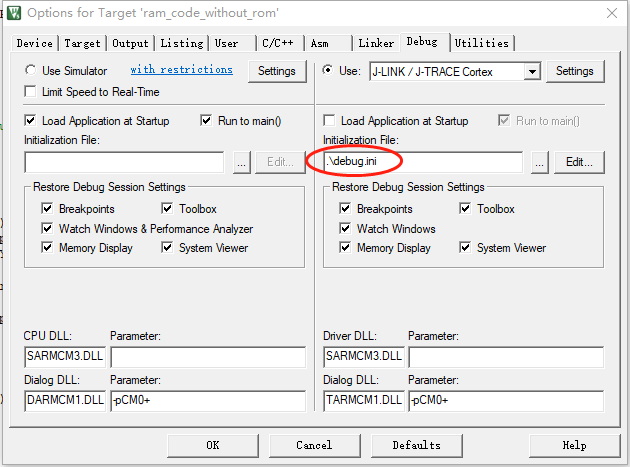
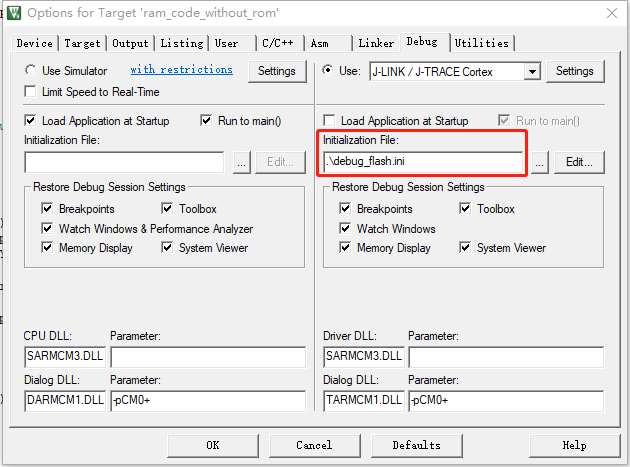
Add tools installation

Changed region(s): [[0.4825, 0.2698, 0.8444, 0.3897]]

diff --git a/getting_started/compiling_and_running_the_first_example.rst b/getting_started/compiling_and_running_the_first_example.rst
@@ -10,11 +10,11 @@ Compiling and running a first example
 
 .. image:: compiling_and_running_the_first_example_img2.png
 
-对于BX2400调试，可以有两种调试方式：在SRAM中调试和在Flash中调试。对于刚刚上手的用户来说，推荐第一种方式。而对于在SRAM中已经将功能调试的差不多的用户来说，可以考虑第二种更贴近实际应用的调试方法。
+对于BX2400调试，通常需要两个基本步骤：编译链接生成hex和运行调试hex
 
-1. SRAM调试
+1. 编译链接生成hex
 
-   在BX2400 SDK中，有若干APP Demo，初次上手的用户可以选择其中一个，编译链接并下载到开发板运行。
+   在BX2400 SDK中，有若干APP Demo，初次上手的用户可以选择其中一个，编译链接。步骤如下：
 
    a. 打开bx_sys_config.h，配置本地蓝牙地址
 
@@ -26,7 +26,7 @@ Compiling and running a first example
 
       .. image:: compiling_and_running_the_first_example_img3.png
 
-      注意：这里的宏必须打开一个，且只能打开一个
+      **!!!注意：这里的宏必须使能一个，且只能使能一个**
 
    #. 编译链接
 
@@ -40,29 +40,18 @@ Compiling and running a first example
 
       .. image:: compiling_and_running_the_first_example_img6.png
 
-      Debug选项中，需要修改初始化文件为debug.ini
+      Debug选项中，确保调试初始化文件为debug_flash.ini
 
-   #. 下载axf文件到开发板中，并运行
+#. 运行调试hex
 
-      .. image:: compiling_and_running_the_first_example_img7.png
+    在Keil目录下找到生成的hex文件，并下载该文件到Flash中，详细步骤可以参考文档 :doc:`flash_programming_guide_using_jflash`
 
-   #. 此时可以通过手机或者抓包器看到空中广播包：
+   #. hex运行起来后，可以通过手机或者抓包器看到空中广播包：
 
       .. image:: compiling_and_running_the_first_example_img8.png
 
-      注意：避免在同一环境中运行两个地址完全相同的蓝牙应用
+      **!!!注意：避免在同一环境中运行两个地址完全相同的蓝牙应用**
 
-   #. 此时可以在Keil环境里暂停/运行，设置断点，单步调试等。具体细节参见文档DEBUG环境
+   #. 可以在Keil环境里暂停/运行，设置断点，单步调试等。具体细节参见文档 :doc: `debug_env_and_tools`
       
-      注意：在BX2400里，某些特定状态下，Keil里无法执行上面的调试步骤，例如当IC在反复睡醒时，此时CPU处于关电状态，JLink无法连接到IC。
-
-2. Flash调试
-
-   Flash调试的前提是bin文件已经烧写入Flash中。关于如何烧写Flash，可以参考文档JFlash Tools
-
-   Flash调试的大部分步骤与RAM调试相同，唯一需要改变的是Debug选项的配置：
-      
-   .. image:: compiling_and_running_the_first_example_img9.png
-
-   在RAM中直接调试，初始化文件为debug.ini，而Flash调试的初始化文件为debug_flash.ini。
-
+      **!!!注意：在BX2400里，某些特定状态下，Keil里无法执行上面的调试步骤，例如当IC在反复睡醒时，此时CPU处于关电状态，JLink无法连接到IC。用户可以使能bx_sys_config.h中的宏DEBUGGER_ATTACHED，在此条件下编译生成的hex会跳过深睡眠的处理，保证在调试时用户的目标板可以连接到JLink**     

diff --git a/getting_started/running_precompile_examples.rst b/getting_started/running_precompile_examples.rst
@@ -1,19 +1,15 @@
 Running precompiled examples
 ^^^^^^^^^^^^^^^^^^^^^^^^^^^^
 
-为了在能够快速验证开发板的功能，同时又尽量避免安装完整的工具链，可以通过将一些示例的可执行文件（.hex/.bin）下载到Flash中，再从Flash启动运行进行验证。
+为了在能够快速验证开发板的功能，同时又尽量避免安装完整的工具链，可以通过将一些示例的可执行文件(.hex)下载到Flash中，再从Flash启动运行进行验证。
 
 将可执行文件下载到Flash中，通常有两种方法：量产模式下载和JFlash下载。前者是通过使用量产工具，经过串口将可执行文件下载到Flash中（参考量产工具使用指南）；后者是通过使用JLink工具包中的JFlash工具下载可执行文件到Flash中（参考JFlash烧写工具使用指南）。调试阶段，通常使用第二种方法。
 
 下载前的准备工作：
 
-1. 从Segger官网（https://www.segger.com/downloads/jlink/）下载最新的JLink安装文件 **(!!!必须V6以上版本)** 
+首先按照 :doc:`tools_installation` 的内容下载安装JLink驱动
 
-#. PC端插入JLink，可以在设备管理器中找到J-Link Driver，表示JLink已经安装成功。如下图所示：
-
-.. image:: running_precompiled_examples_img1.png
-
-之后通过JFlash下载hex/bin文件到Flash：
+之后通过JFlash下载hex文件到Flash：
 
 1. 下载相应的可执行文件到本地目录
 
@@ -21,5 +17,4 @@ Running precompiled examples
 
 #. 重新上电，从Flash中启动，运行可执行文件
         
-根据具体的hex/bin文件内容不同，重新运行后的开发板会有不同的执行结果。外设相关的APP需要查看相关的外设输出，BLE相关的APP需要查看空中数据。
-
+根据具体的hex文件内容不同，重新运行后的开发板会有不同的执行结果。外设相关的APP需要查看相关的外设输出，BLE相关的APP需要查看空中数据。

diff --git a/getting_started/tools_installation.rst b/getting_started/tools_installation.rst
@@ -1,0 +1,24 @@
+Tools installation
+^^^^^^^^^^^^^^^^^^^^^^^^^
+
+编译链接下载调试之前，需要在PC上安装一些基本的软件工具：
+
+1. JLink
+
+    BX2400使用JLink的SWD作为基本调试工具，下载地址https://www.segger.com/downloads/jlink/ 
+    
+    **!!!注意：必须是JLink V6以上版本，否则BX2400 SDK无法正常运行**
+    
+    安装完成后，可以在设备管理器中找到对应的JLink驱动程序，插在PC上的JLink设备可以正确识别。
+    
+    .. image:: tools_installation1.png
+    
+    JLink工具链中使用比较频繁的是JFlash和JLink Commander，分别用于烧写Flash和寄存器级别调试。相关内容在 :doc:`flash_programming_guide_using_jflash` 和 :doc:`debug_env_and_tools` 中有详细介绍
+    
+#. Keil
+
+    BX2400使用Keil作为基本的调试IDE，用户需要自行安装功能完整的Keil
+    
+#. nRF Connect
+
+    nRF Connect是Nordic开发的一款手机平台应用，包括Android和iOS都有相应的安装包。nRF Connect可以scan/connect其他设备，或者作为从设备发ADV(需要OS支持)

diff --git a/getting_started/flash_programming_guide_using_jflash.rst b/getting_started/flash_programming_guide_using_jflash.rst
@@ -1,7 +1,9 @@
 Flash programming guide using JFlash
 ^^^^^^^^^^^^^^^^^^^^^^^^^^^^^^^^^^^^
 
-BX2400支持通过JFlash读写Flash。在操作之前，需要下载JLink(V6版本以上，https://www.segger.com/downloads/jlink/)并安装，之后按照如下步骤操作：
+BX2400支持通过JFlash读写Flash。在操作之前，需要下载JLink(V6版本以上，`JLink下载`_)并安装，之后按照如下步骤操作：
+    
+    .. _JLink下载: https://www.segger.com/downloads/jlink/
 
 1. 准备好DVK/EVK，通过SWD接口将JLink连接到板子上，JLink另一端插入PC，在PC上能正确识别JLink设备
 

diff --git a/getting_started.rst b/getting_started.rst
@@ -4,6 +4,7 @@ Getting Started
 
 .. toctree::
 
+   getting_started/tools_installation
    getting_started/running_precompile_examples
    getting_started/how_to_build_the_first_app
    getting_started/compiling_and_running_the_first_example
